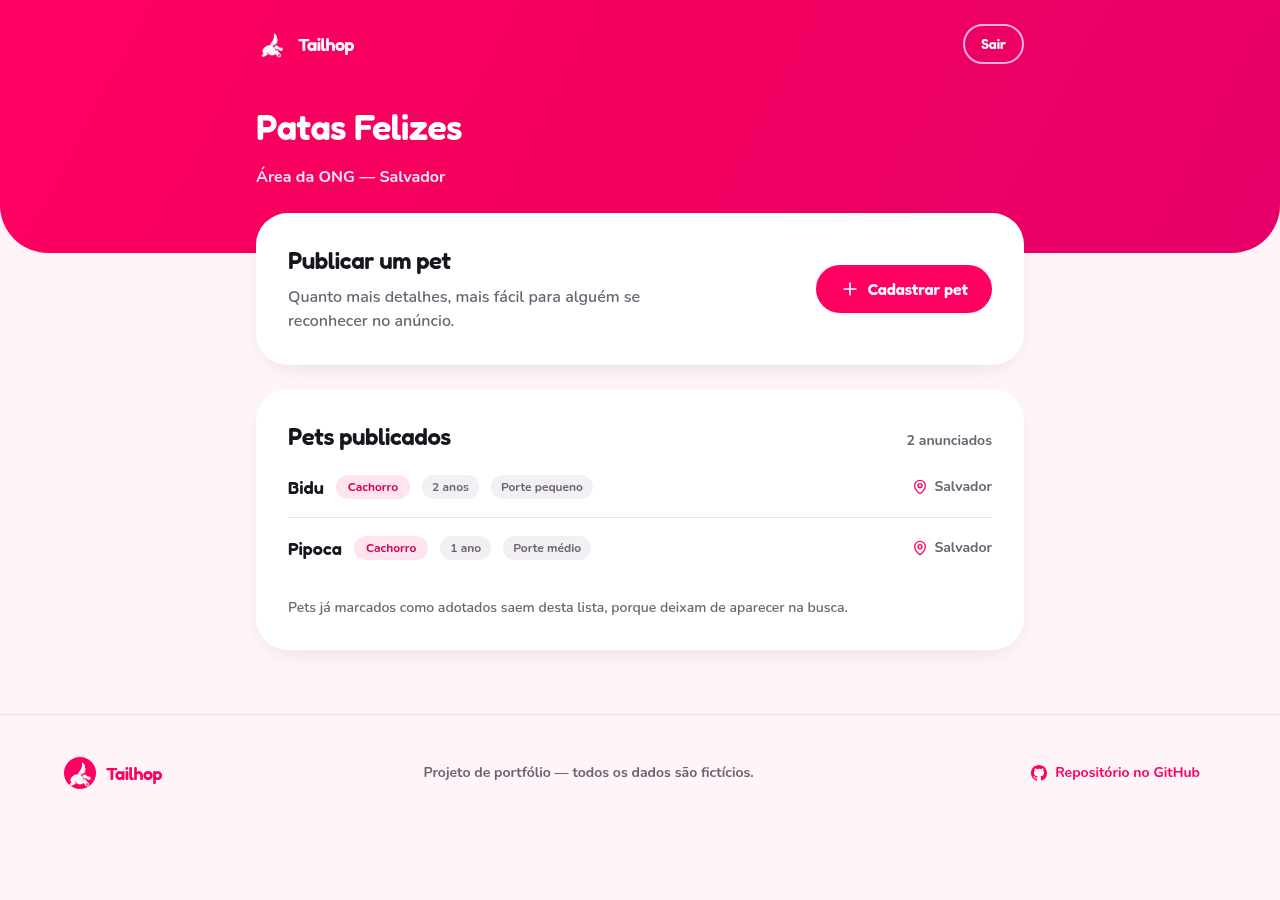
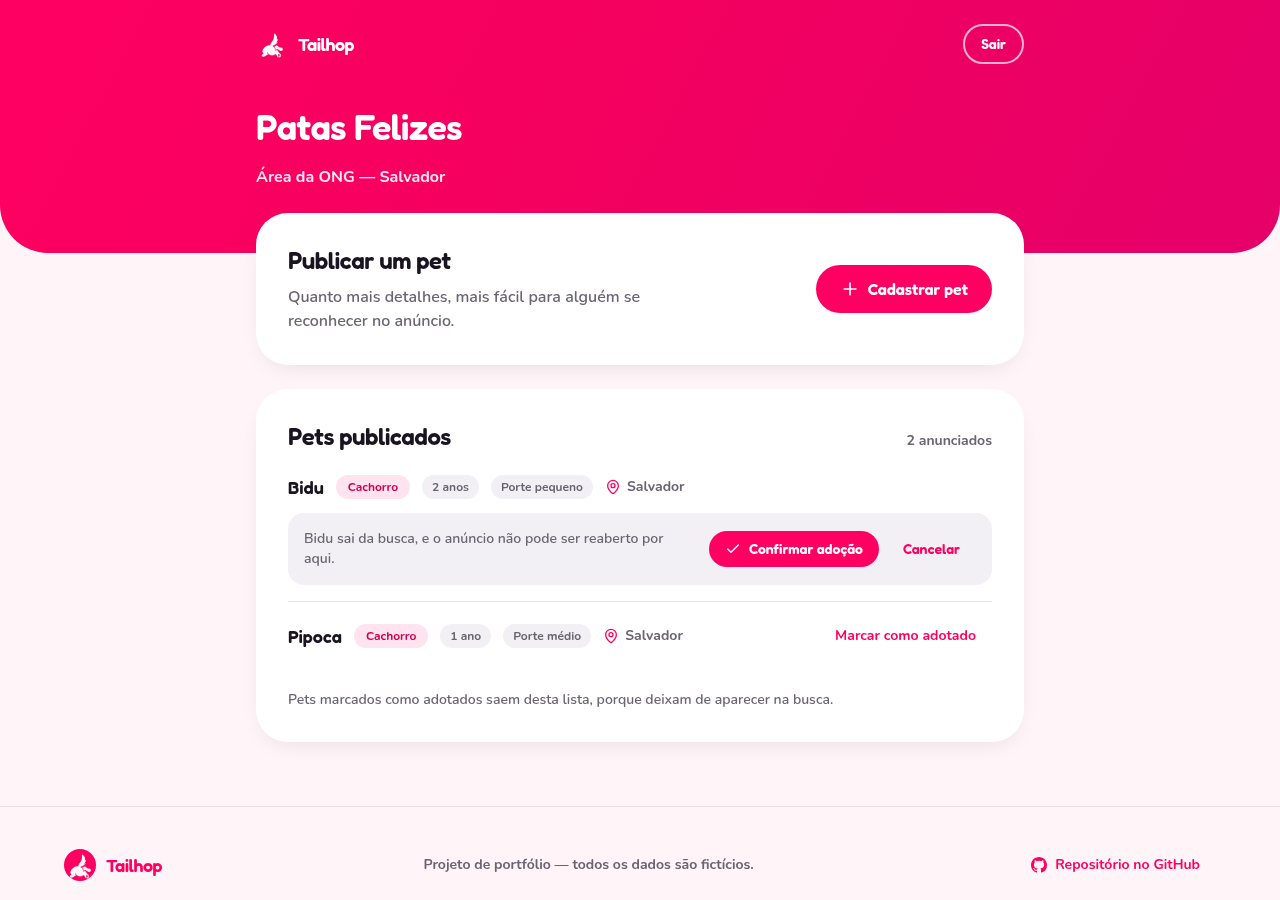
feat(dashboard): mark a published pet as adopted
Closes the loop the API already supported: PATCH /pets/:id/adopt takes
an ad down once the pet has a home.

The action is one-way in the UI, so it asks first. Search never returns
adopted pets, which means a reverted pet would have no screen to be
reverted from — the API accepts adopted: false, but there is nowhere to
call it from. The row confirms inline and states the consequence: a
modal for a one-line action is ceremony, a single click would be a
trap. On success the row goes without refetching a list the pet could
no longer appear in, and the empty state distinguishes "everything was
adopted" from "nothing published yet".

diff --git a/tailhop/src/pages/OrgDashboard.tsx b/tailhop/src/pages/OrgDashboard.tsx
@@ -1,42 +1,148 @@
-import { AlertCircle, MapPin, Plus } from 'lucide-react'
-import { useCallback } from 'react'
-import { Link } from 'react-router-dom'
+import { AlertCircle, Check, MapPin, Plus } from 'lucide-react'
+import { useCallback, useState } from 'react'
+import { Link, useNavigate } from 'react-router-dom'
 import { Card, OrgShell } from '@/components/OrgShell'
 import { PetCardSkeleton } from '@/components/PetCard'
 import { buttonClass } from '@/components/button-styles'
 import { Button, Callout } from '@/components/ui'
-import { fetchOrgPets } from '@/lib/api'
+import { ApiError, fetchOrgPets, markPetAsAdopted } from '@/lib/api'
 import { useAuth } from '@/lib/auth-context'
 import { formatAge, formatSize, formatType } from '@/lib/format'
 import type { ApiOrg, Pet } from '@/lib/types'
 import { useRequest } from '@/lib/useRequest'
 
-/** Linha compacta: no painel a ONG confere o que publicou, não navega vitrine. */
-function PetRow({ pet }: { pet: Pet }) {
+interface PetRowProps {
+  pet: Pet
+  onAdopted: (pet: Pet) => void
+  onUnauthorized: () => void
+}
+
+/**
+ * Uma linha por pet: no painel a ONG confere e dá baixa no que publicou, não
+ * navega pela vitrine.
+ *
+ * Dar baixa é irreversível pela interface — a busca não devolve pets adotados,
+ * então o pet sai do painel e não sobra de onde desmarcá-lo. Daí a confirmação
+ * em dois passos, na própria linha: um diálogo para uma ação de uma linha só
+ * seria cerimônia demais, e o segundo passo já diz o que vai acontecer.
+ */
+function PetRow({ pet, onAdopted, onUnauthorized }: PetRowProps) {
+  const [confirming, setConfirming] = useState(false)
+  const [saving, setSaving] = useState(false)
+  const [error, setError] = useState<string | null>(null)
+
+  async function confirm() {
+    setSaving(true)
+    setError(null)
+
+    try {
+      await markPetAsAdopted(pet.id)
+      onAdopted(pet)
+    } catch (cause) {
+      if (cause instanceof ApiError && cause.isUnauthorized) {
+        onUnauthorized()
+        return
+      }
+      setError(
+        cause instanceof Error
+          ? cause.message
+          : 'Não foi possível dar baixa neste anúncio.',
+      )
+      setSaving(false)
+      setConfirming(false)
+    }
+  }
+
   return (
-    <li className="flex flex-wrap items-center gap-x-3 gap-y-2 border-t border-hairline py-4 first:border-t-0 first:pt-0">
-      <span className="font-display text-lg">{pet.name}</span>
-      <span className="rounded-pill bg-brand-soft px-3 py-1 text-xs font-bold text-brand-deep">
-        {formatType(pet.type)}
-      </span>
-      <span className="rounded-pill bg-shell px-2.5 py-1 text-xs font-bold text-ink-soft">
-        {formatAge(pet.age)}
-      </span>
-      <span className="rounded-pill bg-shell px-2.5 py-1 text-xs font-bold text-ink-soft">
-        {formatSize(pet.size)}
-      </span>
-      <span className="ml-auto flex items-center gap-1.5 text-sm font-bold text-ink-soft">
-        <MapPin className="size-4 text-brand" aria-hidden />
-        {pet.city}
-      </span>
+    <li className="border-t border-hairline py-4 first:border-t-0 first:pt-0">
+      <div className="flex flex-wrap items-center gap-x-3 gap-y-2">
+        <span className="font-display text-lg">{pet.name}</span>
+        <span className="rounded-pill bg-brand-soft px-3 py-1 text-xs font-bold text-brand-deep">
+          {formatType(pet.type)}
+        </span>
+        <span className="rounded-pill bg-shell px-2.5 py-1 text-xs font-bold text-ink-soft">
+          {formatAge(pet.age)}
+        </span>
+        <span className="rounded-pill bg-shell px-2.5 py-1 text-xs font-bold text-ink-soft">
+          {formatSize(pet.size)}
+        </span>
+        <span className="flex items-center gap-1.5 text-sm font-bold text-ink-soft">
+          <MapPin className="size-4 text-brand" aria-hidden />
+          {pet.city}
+        </span>
+
+        {!confirming ? (
+          <button
+            type="button"
+            onClick={() => {
+              setConfirming(true)
+            }}
+            aria-label={`Marcar ${pet.name} como adotado`}
+            className="ml-auto rounded-pill px-4 py-2 text-sm font-bold text-brand transition-colors hover:bg-brand-soft"
+          >
+            Marcar como adotado
+          </button>
+        ) : null}
+      </div>
+
+      {confirming ? (
+        <div className="mt-3 rounded-2xl bg-shell p-4 sm:flex sm:items-center sm:gap-4">
+          <p className="text-sm font-semibold text-ink-soft sm:flex-1">
+            {pet.name} sai da busca, e o anúncio não pode ser reaberto por aqui.
+          </p>
+          <div className="mt-3 flex items-center gap-2 sm:mt-0 sm:shrink-0">
+            <Button size="sm" onClick={confirm} disabled={saving}>
+              {saving ? (
+                'Dando baixa…'
+              ) : (
+                <>
+                  <Check className="size-4" aria-hidden />
+                  Confirmar adoção
+                </>
+              )}
+            </Button>
+            <Button
+              variant="ghost"
+              size="sm"
+              disabled={saving}
+              onClick={() => {
+                setConfirming(false)
+              }}
+            >
+              Cancelar
+            </Button>
+          </div>
+        </div>
+      ) : null}
+
+      {error ? (
+        <p role="alert" className="mt-3 text-sm font-bold text-brand-deep">
+          {error}
+        </p>
+      ) : null}
     </li>
   )
 }
 
 function PublishedPets({ org }: { org: ApiOrg }) {
+  const navigate = useNavigate()
   const { data, loading, error, reload } = useRequest(
     useCallback(() => fetchOrgPets(org), [org]),
   )
+
+  // O pet sai da lista assim que a API confirma, sem refazer a busca inteira:
+  // ele já não voltaria nela de qualquer jeito.
+  const [adoptedIds, setAdoptedIds] = useState<string[]>([])
+  const [notice, setNotice] = useState<string | null>(null)
+
+  const onUnauthorized = useCallback(() => {
+    navigate('/ong/entrar', { replace: true })
+  }, [navigate])
+
+  const onAdopted = useCallback((pet: Pet) => {
+    setAdoptedIds((ids) => [...ids, pet.id])
+    setNotice(`${pet.name} foi marcado como adotado e saiu da busca.`)
+  }, [])
 
   if (loading) {
     return (
@@ -62,40 +168,60 @@ function PublishedPets({ org }: { org: ApiOrg }) {
     )
   }
 
-  if (!data?.length) {
-    return (
-      <Card>
-        <h2 className="text-2xl">Nenhum pet publicado ainda</h2>
-        <p className="mt-3 max-w-md font-semibold text-ink-soft">
-          Assim que você cadastrar o primeiro, ele aparece na busca de quem
-          procura adotar em {org.city}.
-        </p>
-        <Link to="/ong/painel/novo-pet" className={`${buttonClass()} mt-6`}>
-          <Plus className="size-5" aria-hidden />
-          Cadastrar pet
-        </Link>
-      </Card>
-    )
-  }
+  const pets = data?.filter((pet) => !adoptedIds.includes(pet.id)) ?? []
 
   return (
-    <Card>
-      <div className="flex flex-wrap items-baseline justify-between gap-3">
-        <h2 className="text-2xl">Pets publicados</h2>
-        <p className="text-sm font-bold text-ink-soft">
-          {data.length} {data.length === 1 ? 'anunciado' : 'anunciados'}
-        </p>
+    <>
+      <div aria-live="polite" className="sr-only">
+        {notice}
       </div>
-      <ul className="mt-5">
-        {data.map((pet) => (
-          <PetRow key={pet.id} pet={pet} />
-        ))}
-      </ul>
-      <p className="mt-5 text-sm font-semibold text-ink-soft">
-        Pets já marcados como adotados saem desta lista, porque deixam de
-        aparecer na busca.
-      </p>
-    </Card>
+
+      {notice ? (
+        <Callout icon={<Check className="size-5" aria-hidden />}>{notice}</Callout>
+      ) : null}
+
+      {pets.length ? (
+        <Card>
+          <div className="flex flex-wrap items-baseline justify-between gap-3">
+            <h2 className="text-2xl">Pets publicados</h2>
+            <p className="text-sm font-bold text-ink-soft">
+              {pets.length} {pets.length === 1 ? 'anunciado' : 'anunciados'}
+            </p>
+          </div>
+          <ul className="mt-5">
+            {pets.map((pet) => (
+              <PetRow
+                key={pet.id}
+                pet={pet}
+                onAdopted={onAdopted}
+                onUnauthorized={onUnauthorized}
+              />
+            ))}
+          </ul>
+          <p className="mt-5 text-sm font-semibold text-ink-soft">
+            Pets marcados como adotados saem desta lista, porque deixam de
+            aparecer na busca.
+          </p>
+        </Card>
+      ) : (
+        <Card>
+          <h2 className="text-2xl">
+            {adoptedIds.length
+              ? 'Nenhum pet aguardando adoção'
+              : 'Nenhum pet publicado ainda'}
+          </h2>
+          <p className="mt-3 max-w-md font-semibold text-ink-soft">
+            {adoptedIds.length
+              ? 'Todos os seus anúncios foram adotados. Publique outro quando houver um novo resgate.'
+              : `Assim que você cadastrar o primeiro, ele aparece na busca de quem procura adotar em ${org.city}.`}
+          </p>
+          <Link to="/ong/painel/novo-pet" className={`${buttonClass()} mt-6`}>
+            <Plus className="size-5" aria-hidden />
+            Cadastrar pet
+          </Link>
+        </Card>
+      )}
+    </>
   )
 }
 

diff --git a/tailhop/src/lib/mock.ts b/tailhop/src/lib/mock.ts
@@ -244,3 +244,40 @@ export async function mockCreatePet(payload: CreatePetPayload): Promise<ApiPet> 
 
   return pet
 }
+
+/**
+ * Pets marcados como adotados durante a demonstração. Ficam guardados junto
+ * com os cadastrados para que a baixa também sobreviva a um refresh.
+ */
+const DEMO_ADOPTED_KEY = 'tailhop.demo-adopted'
+
+function loadAdoptedIds(): string[] {
+  try {
+    const raw = localStorage.getItem(DEMO_ADOPTED_KEY)
+    return raw ? (JSON.parse(raw) as string[]) : []
+  } catch {
+    return []
+  }
+}
+
+for (const id of loadAdoptedIds()) {
+  const pet = PETS.find((candidate) => candidate.id === id)
+  if (pet) pet.adopted = true
+}
+
+export async function mockMarkAsAdopted(petId: string): Promise<void> {
+  await delay(600)
+
+  const pet = PETS.find((candidate) => candidate.id === petId)
+  if (!pet) throw new Error('Este pet não está mais disponível.')
+  pet.adopted = true
+
+  try {
+    localStorage.setItem(
+      DEMO_ADOPTED_KEY,
+      JSON.stringify([...new Set([...loadAdoptedIds(), petId])]),
+    )
+  } catch {
+    // Navegador sem armazenamento: a baixa ainda vale para esta sessão.
+  }
+}

diff --git a/tailhop/src/lib/api.ts b/tailhop/src/lib/api.ts
@@ -3,6 +3,7 @@ import {
   mockAuthenticate,
   mockCreatePet,
   mockFeaturedPets,
+  mockMarkAsAdopted,
   mockOrg,
   mockSearchPets,
 } from './mock'
@@ -187,6 +188,24 @@ export async function createPet(payload: CreatePetPayload): Promise<ApiPet> {
     method: 'POST',
     authenticated: true,
     body: JSON.stringify(payload),
+  })
+}
+
+/**
+ * `PATCH /pets/:id/adopt` — dá baixa no anúncio.
+ *
+ * A API aceita `adopted: false` para reverter, mas a interface não expõe isso:
+ * a busca não devolve pets adotados, então um pet revertido não teria como
+ * voltar a aparecer no painel para ser desmarcado. Por isso a tela confirma
+ * antes. Só a ONG dona passa daqui — o backend responde 403 para as outras.
+ */
+export async function markPetAsAdopted(petId: string): Promise<void> {
+  if (usingMockData) return mockMarkAsAdopted(petId)
+
+  await request<{ adoptedPet: ApiPet }>(`/pets/${petId}/adopt`, {
+    method: 'PATCH',
+    authenticated: true,
+    body: JSON.stringify({ adopted: true }),
   })
 }
 

diff --git a/tailhop/README.md b/tailhop/README.md
@@ -43,7 +43,8 @@ layer for them, not patched in the client because it was quicker.
 | --- | --- |
 | ![Pet listing](docs/listing.png) | ![Shelter signup](docs/org-signup.png) |
 
-The authenticated side, where a shelter manages what it has published:
+The authenticated side, where a shelter publishes pets and closes the ads that
+found a home:
 
 | Sign in | Shelter dashboard | Publish a pet |
 | --- | --- | --- |
@@ -117,6 +118,13 @@ both light and brand backgrounds, labelled form fields, results announced via
 identical "Adopt" buttons is useless to a screen reader.
 
 **Filters live in the URL.** A search survives a reload and can be shared.
+
+**A confirmation step where the action is one-way.** Marking a pet as adopted
+removes it from search, and since search never returns adopted pets there is
+nowhere left in the UI to undo it. So the row asks once, inline, and spells out
+the consequence — a modal for a one-line action is ceremony, but doing it on a
+single click would be a trap. The row disappears the moment the API confirms,
+without refetching a list the pet could no longer appear in.
 
 **Session handling that doesn't fight the user.** The saved session is restored
 synchronously, before the first render, so a refresh on a private page never
@@ -213,12 +221,12 @@ Deliberately out of scope for now, and why:
   `registerOrg` is written and typed against `POST /orgs`; wiring it up is one
   call. Note the API also requires `password` and `address`, which the approved
   design doesn't collect.
-- **Marking a pet as adopted.** `PATCH /pets/:id/adopt` exists and is the next
-  action to add to the dashboard.
 - **`GET /orgs/me/pets`.** The dashboard reuses the public city search and keeps
   the shelter's own pets, because the API has no "my pets" endpoint. That
   inherits two limits: only the first page of the city, and adopted pets are
-  invisible since the search excludes them.
+  invisible since the search excludes them. That second limit is why marking a
+  pet as adopted is one-way in the UI: the API accepts `adopted: false`, but a
+  reverted pet would have no screen to be reverted from.
 - **`Ferret` can't be registered.** The Prisma enum spells it `Ferret` but the
   register controller validates against `"Furret"`, so neither spelling passes
   both layers. The option is left out of the form until the API is fixed —
